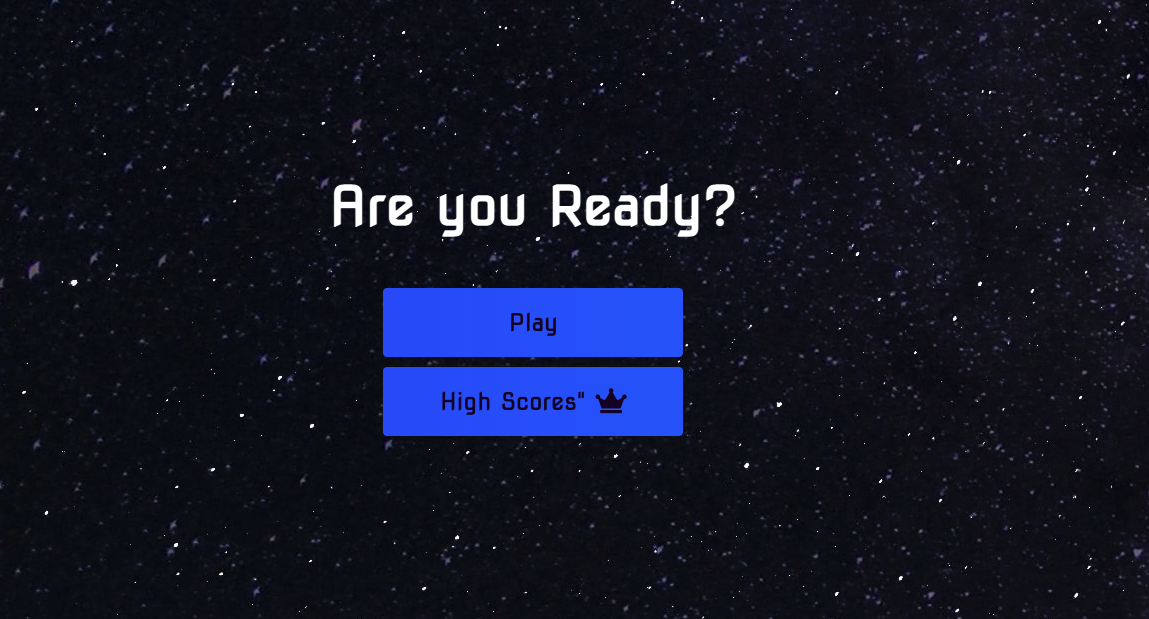
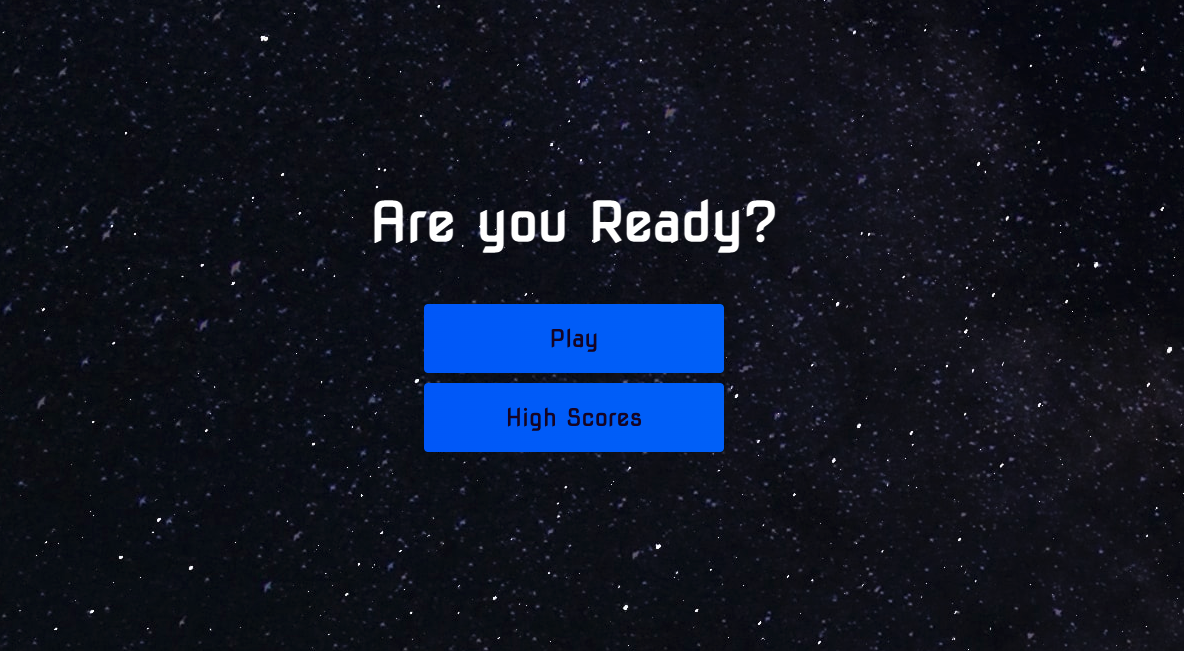
updated READ.ME and highscore button

diff --git a/index.html b/index.html
@@ -14,7 +14,7 @@
             <h1>Are you Ready?</h1>
             <a href="./game.html" class="btn">Play</a>
             <a href="./highscores.html" id="highscores-btn" class="btn">High
-                Scores"<i class="fas fa-crown"></i></a>
+                Scores</a>
         </div>
     </div>
 </body>

diff --git a/assets/style.css b/assets/style.css
@@ -182,6 +182,10 @@ input::placeholder {
 }
 
 /* Game Page CSS */
+/* #game {
+    display: flex;
+} */
+ 
 
 body {
     color: #fff;
